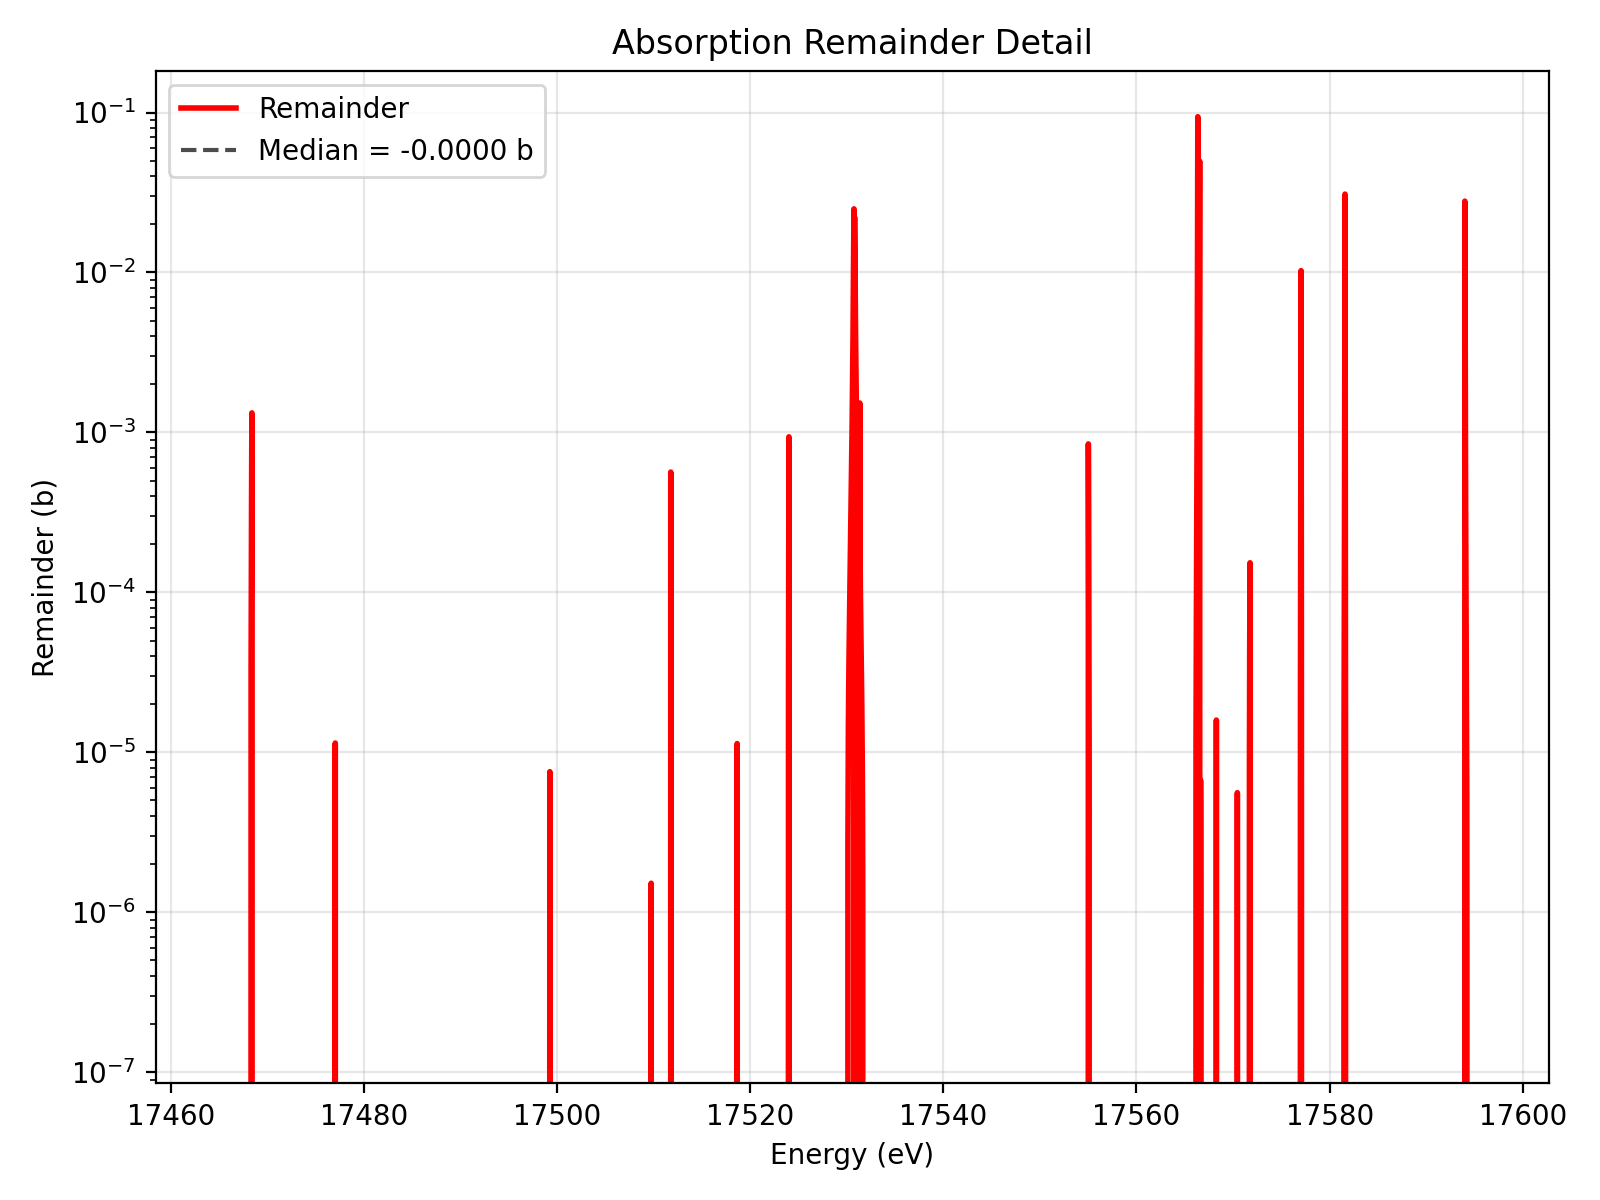
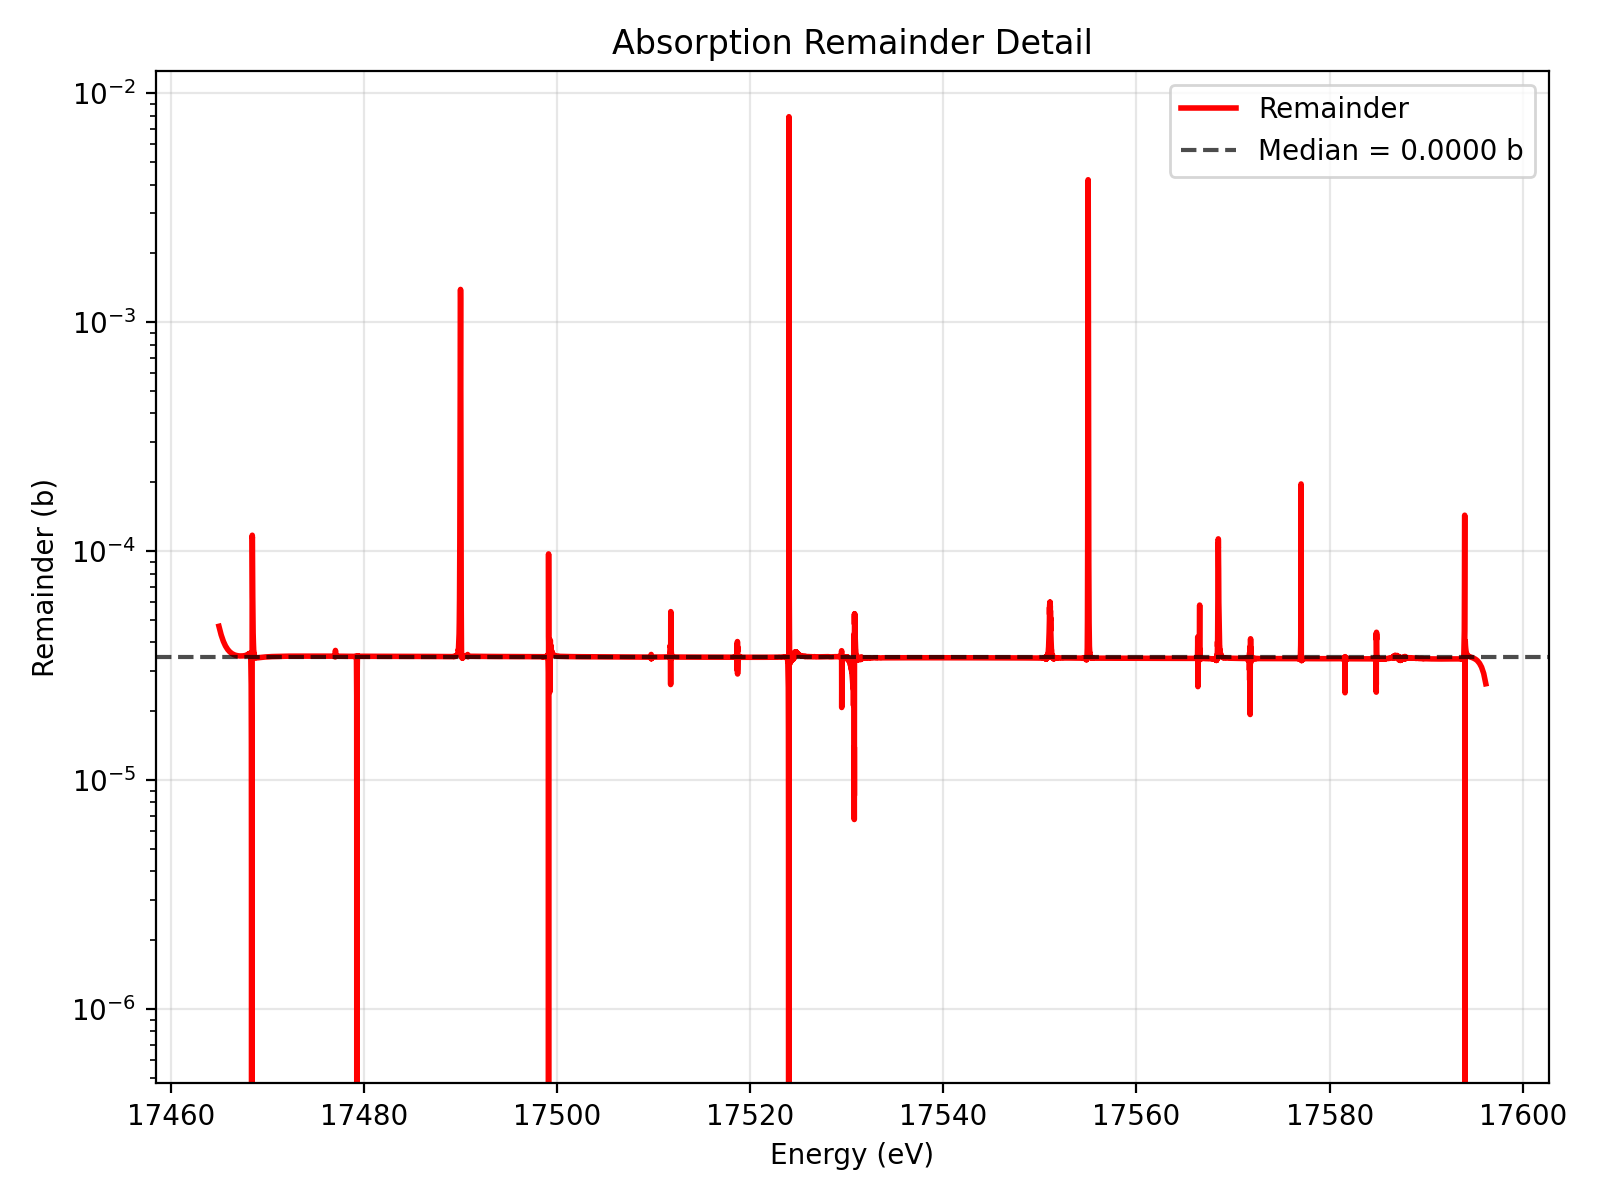
getting closer

diff --git a/openmc/openmc/data/aaa.py b/openmc/openmc/data/aaa.py
@@ -292,11 +292,86 @@ def evaluate_aaa(E, w, z, fz, space="E"):
     return num / den
 
 
-# def extract_poles_and_residues(w, z, fvals, space="E", log=False):
-#     """
-#     plane: "s" to return s-plane poles; "E" to return E-plane (E = s^2).
-#     """
+def extract_poles_and_residues(w, z, fvals, space="E", log=False):
+    """
+    plane: "s" to return s-plane poles; "E" to return E-plane (E = s^2).
+    """
 
+    m = len(z)
+    C = np.zeros((m + 1, m + 1), dtype=complex)
+    C[0, 1:] = w
+    C[1:, 0] = 1.0
+    C[1:, 1:] = np.diag(z)
+    C[0, 0] = 0.0
+
+    B = np.eye(m + 1, dtype=complex)
+    B[1:, 0] = 1.0
+    B[0, 0] = 0.0
+    lam, _ = la.eig(C, B)
+    poles = lam[np.isfinite(lam)]  # finite eigenvalues
+
+    if space == "sqrt_E":
+        # poles = poles
+        poles = poles**2
+    elif space == "E":
+        # poles = np.sqrt(poles)
+        poles = poles
+    else:
+        raise ValueError(f"Unknown space: {space}")
+
+    # residues for each component fk at these poles (in current plane's variable)
+    def residues_for(fk):
+        fk = np.asarray(fk, dtype=complex)
+        r = np.empty_like(poles, dtype=complex)
+        for i, p in enumerate(poles):
+            num = np.sum(w * fk / (p - z))
+            dprime = -np.sum(w / (p - z) ** 2)
+            r[i] = num / dprime
+        return r
+
+    residues = [residues_for(fk) for fk in fvals]
+
+    # sorted by real part for stable output
+    idx = np.argsort(poles.real)
+    poles = poles[idx]
+    residues = [r[idx] for r in residues]
+
+    if log:
+        # cosmetic: snap tiny Im parts to 0 for printing
+        imag_thr = 100 * np.finfo(float).eps * np.maximum(1.0, np.abs(poles.real))
+        poles_print = poles.real + 1j * np.where(np.abs(poles.imag) < imag_thr, 0.0, poles.imag)
+
+        for p in poles_print:
+            print(f"poles real {p.real:6.2f}   imag {p.imag:8.2e}")
+
+    if log:
+        print(f"Found {len(poles)} poles")
+        # Test reconstruction away from support points
+        test_E = (z[10] + z[11]) / 2  # Midpoint between first two support points
+
+        for i, fk in enumerate(fvals):
+            # Pole-residue reconstruction
+            recon = np.sum(residues[i] / (test_E - poles))
+
+            # Barycentric evaluation for comparison
+            bary_num = np.sum(w * fk / (test_E - z))
+            bary_den = np.sum(w / (test_E - z))
+            bary_val = bary_num / bary_den
+
+            print(
+                f"  Channel {i} at E={test_E:.3e}: "
+                f"bary={bary_val.real:.3e}, pole-res={recon.real:.3e}, "
+                f"ratio={recon.real/bary_val.real:.3f}"
+            )
+
+    return poles, residues
+
+
+# def extract_poles_and_residues(w, z, fvals, space="sqrt_E", log=False):
+#     # Find poles as zeros of the common denominator
+#     # D(x) = Σ w_j / (x - z_j)
+
+#     # Build the companion matrix for the denominator
 #     m = len(z)
 #     C = np.zeros((m + 1, m + 1), dtype=complex)
 #     C[0, 1:] = w
@@ -306,87 +381,67 @@ def evaluate_aaa(E, w, z, fz, space="E"):
 
 #     B = np.eye(m + 1, dtype=complex)
 #     B[0, 0] = 0.0
+#     # B = np.zeros((m + 1, m + 1), dtype=complex)
+#     B[1:, 0] = 1.0
+#     # B[1:, 1:]
 
 #     lam, _ = la.eig(C, B)
 #     poles = lam[np.isfinite(lam)]  # finite eigenvalues
 
+#     # Convert poles to E space if needed
 #     if space == "sqrt_E":
-#         # poles = poles
 #         poles = poles**2
-#     elif space == "E":
-#         # poles = np.sqrt(poles)
-#         poles = poles
-#     else:
-#         raise ValueError(f"Unknown space: {space}")
+#     poles = np.array(poles, dtype=complex)
 
-#     # residues for each component fk at these poles (in current plane's variable)
-#     def residues_for(fk):
-#         fk = np.asarray(fk, dtype=complex)
-#         r = np.empty_like(poles, dtype=complex)
-#         for i, p in enumerate(poles):
-#             num = np.sum(w * fk / (p - z))
-#             dprime = -np.sum(w / (p - z) ** 2)
-#             r[i] = num / dprime
-#         return r
+#     # Compute residues for each channel
+#     residues_list = []
 
-#     residues = [residues_for(fk) for fk in fvals]
+#     for i, fk in enumerate(fvals):
+#         residues = np.zeros(len(poles), dtype=complex)
 
-#     # sorted by real part for stable output
+#         # For each pole, compute residue using l'Hôpital's rule
+#         for j, pole in enumerate(poles):
+#             # Numerator at pole: N(pole) = Σ w_k * f_k / (pole - z_k)
+#             # Denominator derivative at pole: D'(pole) = Σ -w_k / (pole - z_k)^2
+
+#             # We need to be careful about numerical precision near poles
+#             # Use a small offset to evaluate near the pole
+#             eps = 1e-15
+#             pole_offset = pole + eps
+
+#             num = np.sum(w * fk / (pole_offset - z))
+#             denom_deriv = np.sum(-w / (pole_offset - z) ** 2)
+
+#             residues[j] = num / denom_deriv
+
+#         residues_list.append(residues)
+
+#     # Sort by real part of poles
 #     idx = np.argsort(poles.real)
 #     poles = poles[idx]
-#     residues = [r[idx] for r in residues]
+#     residues_list = [r[idx] for r in residues_list]
 
 #     if log:
-#         # cosmetic: snap tiny Im parts to 0 for printing
-#         imag_thr = 100 * np.finfo(float).eps * np.maximum(1.0, np.abs(poles.real))
-#         poles_print = poles.real + 1j * np.where(np.abs(poles.imag) < imag_thr, 0.0, poles.imag)
+#         print(f"Found {len(poles)} poles")
+#         # Test reconstruction away from support points
+#         test_E = (z[10] + z[11]) / 2  # Midpoint between first two support points
 
-#         for p in poles_print:
-#             print(f"poles real {p.real:6.2f}   imag {p.imag:8.2e}")
+#         for i, fk in enumerate(fvals):
+#             # Pole-residue reconstruction
+#             recon = np.sum(residues_list[i] / (test_E - poles))
 
-#     return poles, residues
+#             # Barycentric evaluation for comparison
+#             bary_num = np.sum(w * fk / (test_E - z))
+#             bary_den = np.sum(w / (test_E - z))
+#             bary_val = bary_num / bary_den
 
+#             print(
+#                 f"  Channel {i} at E={test_E:.3e}: "
+#                 f"bary={bary_val.real:.3e}, pole-res={recon.real:.3e}, "
+#                 f"ratio={recon.real/bary_val.real:.3f}"
+#             )
 
-def extract_poles_and_residues(w, z, fvals, space="sqrt_E", log=False):
-    """
-    Use baryrat to extract poles and residues from AAA representation
-    """
-    import baryrat
-    # Create BarycentricRational objects for each channel
-    residues_list = []
-
-    for i, fk in enumerate(fvals):
-        # Create barycentric rational for this channel
-        rat = baryrat.BarycentricRational(z, fk, w)
-
-        # Get poles and residues
-        poles_channel, res_channel = rat.polres()
-
-        # On first channel, store the poles (should be same for all channels)
-        if i == 0:
-            poles = np.array(poles_channel, dtype=complex)
-
-            # Transform poles if needed
-            if space == "sqrt_E":
-                poles = poles**2  # Transform from sqrt(E) to E space
-            elif space == "E":
-                pass  # Already in E space
-            else:
-                raise ValueError(f"Unknown space: {space}")
-
-        residues_list.append(np.array(res_channel, dtype=complex))
-
-    # Sort by real part of poles
-    idx = np.argsort(poles.real)
-    poles = poles[idx]
-    residues_list = [r[idx] for r in residues_list]
-
-    if log:
-        print(f"Found {len(poles)} poles")
-        for p in poles:  # Print first 5
-            print(f"  pole: {p.real:.2f} + {p.imag:.2e}j")
-
-    return poles, residues_list
+#     return poles, residues_list
 
 
 def plot_aaa_results(

diff --git a/openmc/openmc/data/wmp.py b/openmc/openmc/data/wmp.py
@@ -233,7 +233,7 @@ def vectfit_nuclide(
             sig_a_piece = absorption_xs[mask_fit]
             sig_f_piece = fission_xs[mask_fit] if fissionable else None
 
-            w, z, f_s_z, f_a_z, *rest = aaa_xs(
+            w, z, fsz, faz, *rest = aaa_xs(
                 E_piece,
                 sig_s_piece,
                 sig_a_piece,
@@ -263,7 +263,7 @@ def vectfit_nuclide(
                 space=space,
             )
 
-        # EXTRACT AND FROISSART
+        # EXTRACT
         ffz = rest[0] if fissionable else None
         fvals_piece = [fsz, faz] + ([ffz] if fissionable else [])
         poles_s, residues_list = extract_poles_and_residues(
@@ -430,7 +430,7 @@ def analyze_constant_background(
     elastic_pole, absorption_pole, fission_pole = evaluate_multipole_xs(
         E,
         mc_data,
-        include_background=False,
+        include_background=True,
     )
 
     # Calculate remainders (original - pole contributions)
@@ -478,11 +478,12 @@ def analyze_constant_background(
     print(f"\nBackground Analysis for {name}:")
     # print(f"Elastic background: {elastic_mean:.4f} ± {elastic_std:.4f} b")
     # print(f"Absorption background: {absorption_mean:.4f} ± {absorption_std:.4f} b")
-    print(f"Elastic background median: {elastic_median:.4f} b")
+    print(f"Elastic background median: {elastic_median:.8f} b")
     print(f"Elastic mode {elastic_modes.mode} and count {elastic_modes.count}")
-    print(f"Absorption background median: {absorption_median:.4f} b")
+    print(f"Absorption background median: {absorption_median:.8f} b")
     if fission_remainder is not None:
-        print(f"Fission background: {fission_mean:.4f} ± {fission_std:.4f} b")
+        print(f"Fission background: {fission_mean:.8f} ± {fission_std:.4f} b")
+        print(f"Fission background median: {fission_median} b")
 
     # Create plots showing the decomposition
     if path_out:
@@ -652,33 +653,33 @@ def evaluate_multipole_xs(E, data_dict, include_background=True):
             # Simple pole evaluation: residue / (E - pole)
             denominator = energy - pole
 
-            if abs(denominator) > 1e-12:  # Avoid division by zero
-                contribution = 1.0 / (denominator)  # Include 1/E factor
+            # if abs(denominator) > 1e-12:  # Avoid division by zero
+            contribution = 1.0 / (denominator)  # Include 1/E factor
 
-                # Elastic (column 1)
-                elastic_xs[i] += (data[pole_idx, 1] * contribution).real
+            # Elastic (column 1)
+            elastic_xs[i] += (data[pole_idx, 1] * contribution).real
 
-                # Absorption (column 2)
-                absorption_xs[i] += (data[pole_idx, 2] * contribution).real
+            # Absorption (column 2)
+            absorption_xs[i] += (data[pole_idx, 2] * contribution).real
 
-                # Fission (column 3, if present)
-                if fissionable:
-                    fission_xs[i] += (data[pole_idx, 3] * contribution).real
+            # Fission (column 3, if present)
+            if fissionable:
+                fission_xs[i] += (data[pole_idx, 3] * contribution).real
 
     # Add constant background as per Gavin's insight
     if include_background:
         # These are rough estimates - in practice you'd determine these
         # from the nearly constant remainder after subtracting pole contributions
-        elastic_xs += 0  # Typical hard sphere elastic scattering (barns)
-        absorption_xs += -0.0008  # Small constant absorption background
+        elastic_xs += 0.66909653  # Typical hard sphere elastic scattering (barns)
+        absorption_xs += -0.00003699 # Small constant absorption background
         if fissionable:
-            fission_xs += 0.0  # Small fission background
+            fission_xs += 1.2838614686081672e-06  # Small fission background
 
     # Ensure non-negative cross sections
-    elastic_xs = np.maximum(elastic_xs, 0.0)
-    absorption_xs = np.maximum(absorption_xs, 0.0)
-    if fissionable:
-        fission_xs = np.maximum(fission_xs, 0.0)
+    # elastic_xs = np.maximum(elastic_xs, 0.0)
+    # absorption_xs = np.maximum(absorption_xs, 0.0)
+    # if fissionable:
+    #     fission_xs = np.maximum(fission_xs, 0.0)
 
     return elastic_xs, absorption_xs, fission_xs
 

diff --git a/analyze_wmp.py b/analyze_wmp.py
@@ -4,8 +4,6 @@ from openmc.data.wmp import vectfit_nuclide
 from openmc.data.aaa import plot_aaa_results
 
 
-
-
 def open_wmp_h5(wmp_file):
     with h5py.File(wmp_file, "r") as f:
         # # List all options (groups and datasets) in the HDF5 file
@@ -49,7 +47,7 @@ if __name__ == "__main__":
         endf_file,
         vf_pieces=1,
         mmax=1000,
-        rtol=1e-2,
+        rtol=1e-3,
         path_out=path_out,
         log=2,
         njoy_input=njoy_input,
@@ -58,7 +56,7 @@ if __name__ == "__main__":
         bounds={"E_min": 17465, "E_max": 17596},
         space="E",
         # method='qr+svd',
-        cleanup=False,
+        cleanup=True,
         cleanup_tol=1e-6,  # Only remove if pole-zero distance < 1e-6
         plot_each_slice=True,
         fit_mask_guard=0.0,
